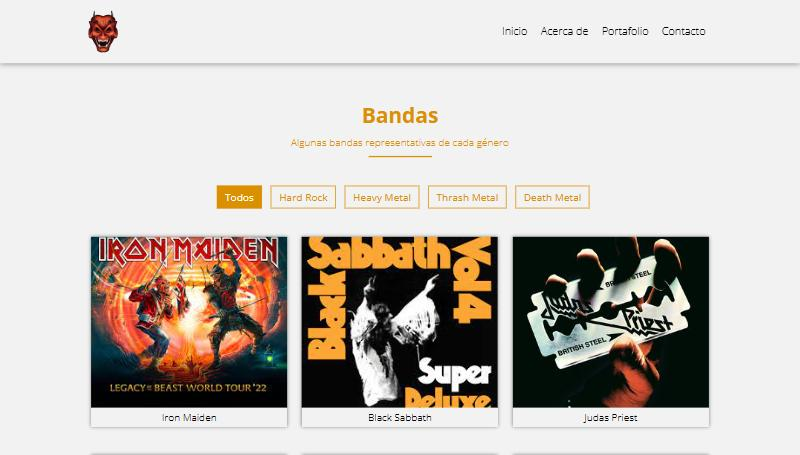
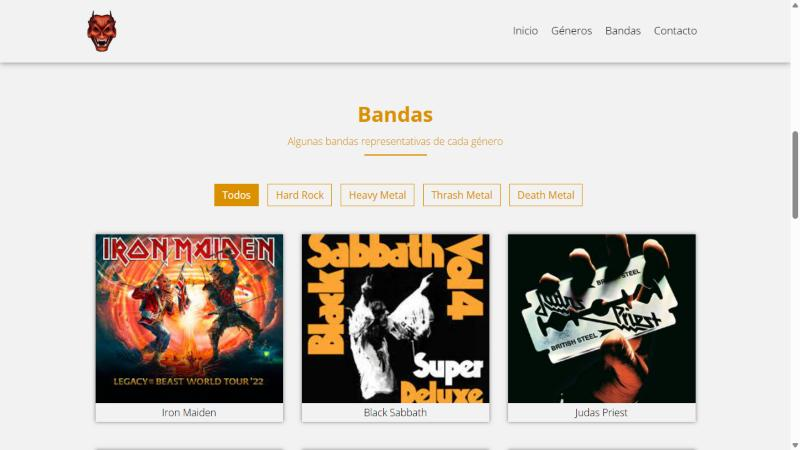
docs(readme): actualizar tecnologías y capturas
Las capturas muestran el menú con Géneros y Bandas, y la tabla menciona CSS Grid y Font Awesome 6.

diff --git a/README.md b/README.md
@@ -37,9 +37,9 @@ Sitio web de una sola página que desarrollé en el colegio como mi primer proye
 | Tecnología | Uso |
 |---|---|
 | HTML5 | Estructura semántica del sitio |
-| CSS3 | Estilos, variables, Flexbox, animaciones, desplazamiento suave y media queries |
+| CSS3 | Estilos, variables, Grid, Flexbox, animaciones, desplazamiento suave y media queries |
 | JavaScript | Menú, filtro de la galería, cambios al hacer scroll y pantalla de carga |
-| Font Awesome 5 | Íconos de redes sociales |
+| Font Awesome 6 | Íconos de redes sociales |
 | Google Fonts | Tipografía Open Sans |
 
 ## Estructura
